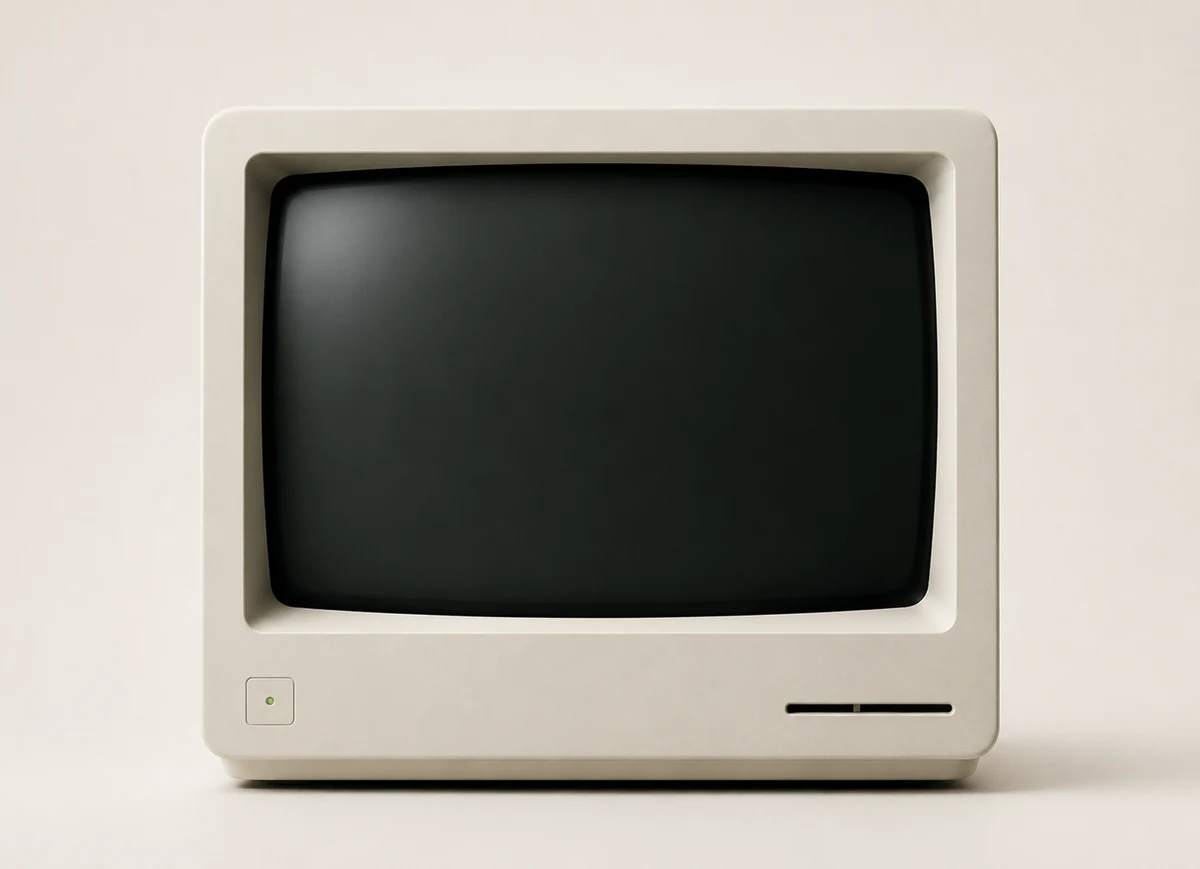
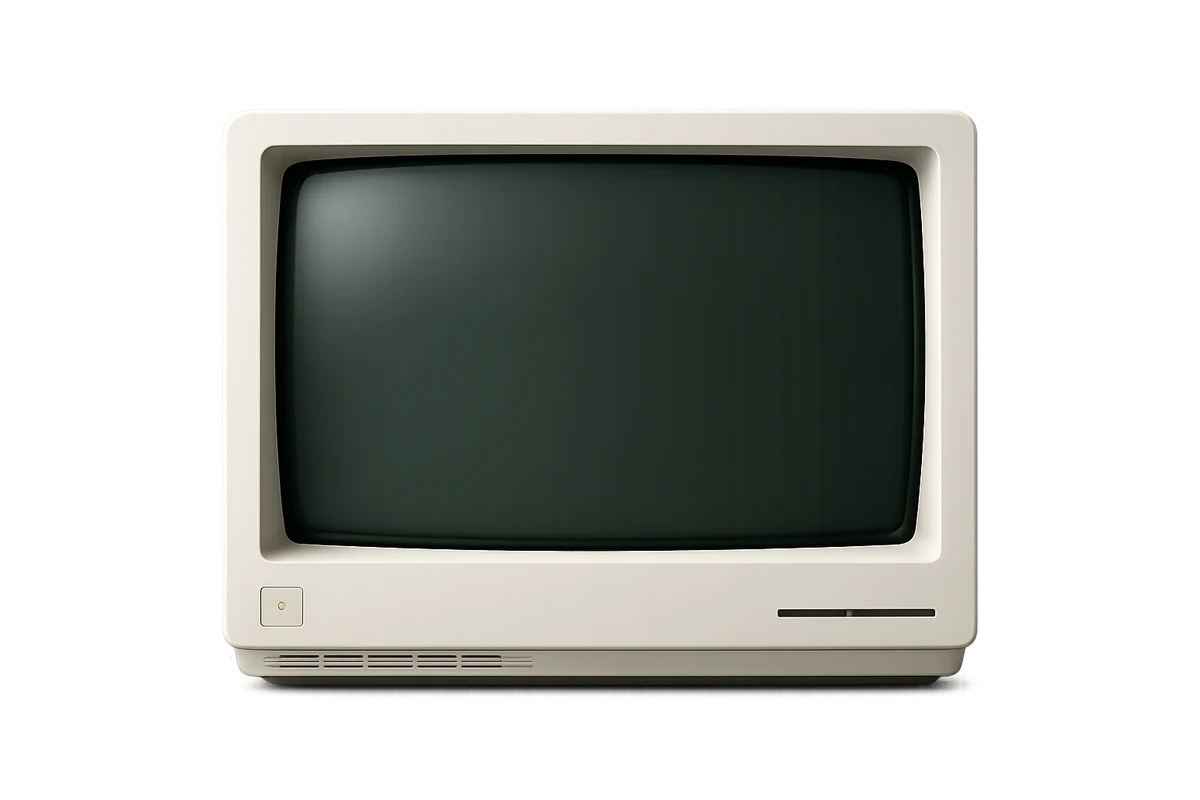
feat(lm0): new transparent machine render + screen box re-measured
Swap the CRT to the user's new transparent PNG (no background) -> webp 1200x800
with alpha. Remove the radial edge mask (no longer needed; it would clip the
machine) and add a soft drop-shadow to ground it on the paper. Re-measure the
phosphor screen box from the render (CRT block 22%/18%/54.5%x50.4%, inset for
the curved glass): left 24% top 20.5% 50.5%x45.5%.

diff --git a/src/features/lab/lm0/nacimiento/lm0.css b/src/features/lab/lm0/nacimiento/lm0.css
@@ -230,17 +230,19 @@
   display: block;
   width: 100%;
   height: auto;
-  -webkit-mask-image: radial-gradient(ellipse 76% 78% at 50% 48%, black 60%, transparent 88%);
-  mask-image: radial-gradient(ellipse 76% 78% at 50% 48%, black 60%, transparent 88%);
+  /* transparent PNG → no mask; a soft contact shadow grounds it on the paper */
+  filter: drop-shadow(0 26px 40px rgb(60 55 45 / 0.22));
 }
 
+/* screen box measured from the render (CRT block: left 22% top 18% 54.5%×50.4%),
+   inset a touch so phosphor text stays inside the curved glass. */
 .lm0-screenbox {
   position: absolute;
-  left: 24.4%;
-  top: 20.4%;
-  width: 51.8%;
-  height: 48%;
-  border-radius: 6px;
+  left: 24%;
+  top: 20.5%;
+  width: 50.5%;
+  height: 45.5%;
+  border-radius: 10px;
   overflow: hidden;
   box-shadow: inset 0 0 26px rgb(159 233 196 / 0.1);
 }